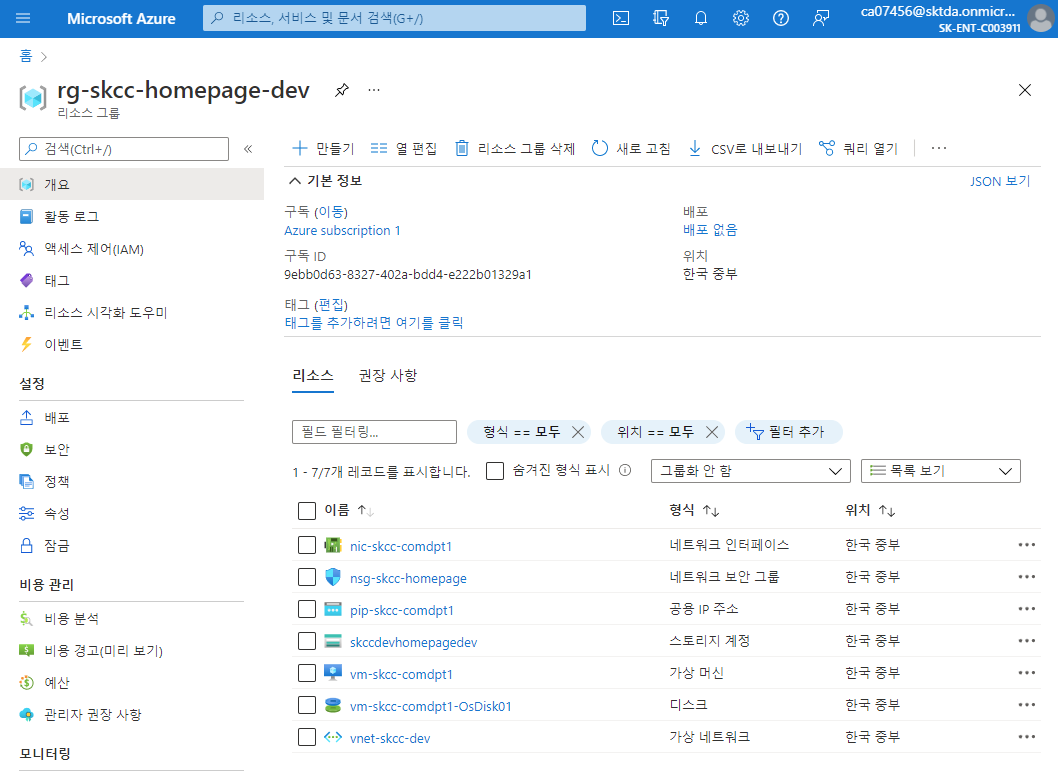
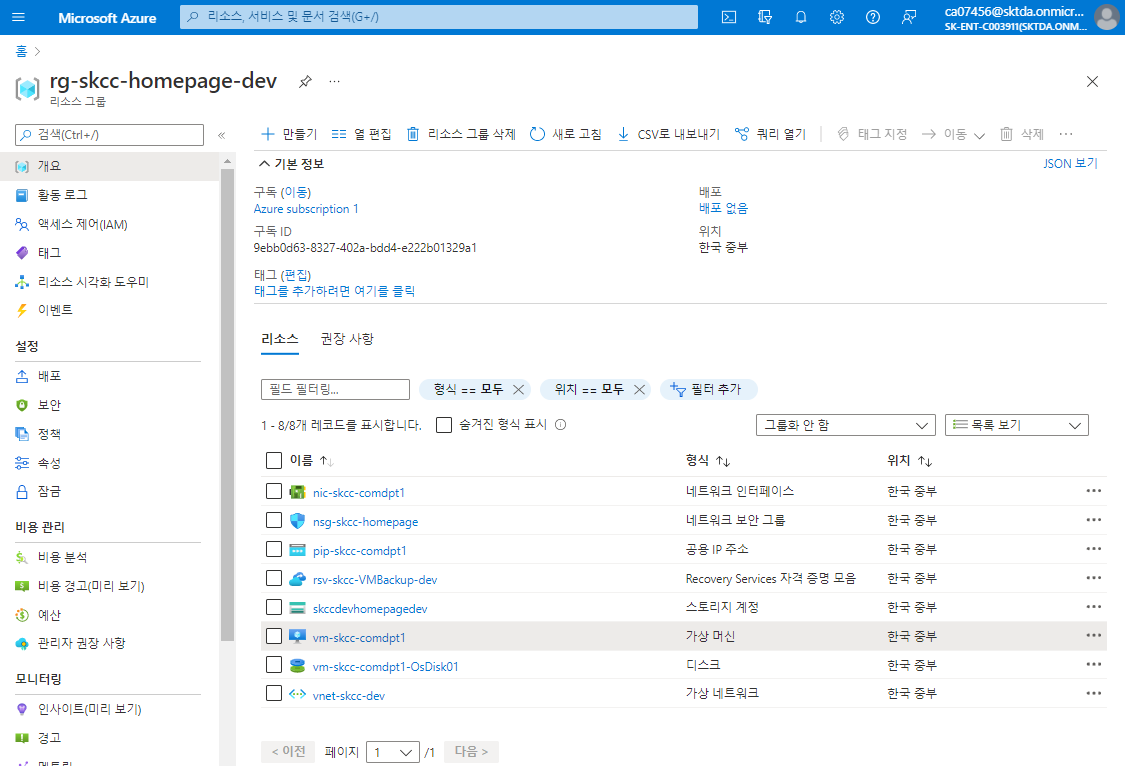
2022-01-17

diff --git a/1.IaaS/AzureBackup.md b/1.IaaS/AzureBackup.md
@@ -1,0 +1,96 @@
+# Azure Backup
+* [PowerShell을 사용하여 Azure에서 가상 머신 백업](https://docs.microsoft.com/ko-kr/azure/backup/quick-backup-vm-powershell)
+![Azure-Backup.png](./img/Azure-Backup.png)  
+![AzureVMBackupRestoreUsingSnapshot_thumb.png](./img/AzureVMBackupRestoreUsingSnapshot_thumb.png)  
+* [Azure VM에서 SQL Server 데이터베이스 백업](https://docs.microsoft.com/ko-kr/azure/backup/tutorial-sql-backup)  
+* [자습서: Azure VM에서 SAP HANA 데이터베이스 백업](https://docs.microsoft.com/ko-kr/azure/backup/tutorial-backup-sap-hana-db)  
+* [PowerShell을 사용하여 Azure Database for MySQL 서버를 백업 및 복원하는 방법](https://docs.microsoft.com/ko-kr/azure/mysql/howto-restore-server-powershell)
+
+## Backup 정책
+| 구분 | 주기 | 방법 |
+|:---|:---|:---|  
+| VM | 일 Backup | Incremental | 
+| DB | 일 Backup | Full | 
+
+## Login
+- az login 과 Connect-AzAccount 는 각각의 영영을 가지는 것으로 보임
+```powershell
+Connect-AzAccount
+Get-AzSubscription
+```
+
+## Recovery Services 자격 증명 모음 만들기
+### 자격 증명 모음 생성
+
+```powershell
+New-AzRecoveryServicesVault `
+  -ResourceGroupName "rg-skcc-homepage-dev" `
+  -Name "rsv-skcc-VMBackup-dev" `
+  -Location "koreacentral"
+```
+
+### 자격증명모음 컨텍스트 만들기
+```powershell
+Get-AzRecoveryServicesVault `
+  -Name "rsv-skcc-VMBackup-dev" | Set-AzRecoveryServicesVaultContext
+```
+
+### 자격 증명 모음의 스토리지 중복 구성(LRS/GRS)을 변경
+```powershell
+Get-AzRecoveryServicesVault `
+  -Name "rsv-skcc-VMBackup-dev" |  `
+  Set-AzRecoveryServicesBackupProperty `
+    -BackupStorageRedundancy LocallyRedundant
+```
+
+## Azure VM에 백업 사용
+### 기본 정책을 설정
+```powershell
+$policy = Get-AzRecoveryServicesBackupProtectionPolicy `
+  -Name "DefaultPolicy"
+```
+![DefaultBackuPolicy.png](./img/DefaultBackuPolicy.png)  
+
+### VM 백업을 사용하도록 설정
+```powershell
+$vm='vm-skcc-comdpt1';
+Enable-AzRecoveryServicesBackupProtection `
+    -ResourceGroupName "rg-skcc-homepage-dev" `
+    -Name "$vm" `
+    -Policy $policy
+```
+
+## 백업 작업 시작
+백업은 백업 정책에 지정된 일정에 따라 실행
+- 첫 번째 초기 백업 작업에서는 전체 복구 지점이 만들어집니다.
+- 초기 백업 후에는 각 백업 작업에서 증분 복구 지점이 만들어집니다.
+- 증분 복구 지점은 마지막 백업 이후 변경된 내용만을 전송하기 때문에 스토리지 및 시간 효율적입니다.
+
+### 주문형 백업 작업
+- 컨테이너를 지정하고, VM 정보를 가져오고, 백업을 실행
+```powershell
+$backupcontainer = Get-AzRecoveryServicesBackupContainer `
+    -ContainerType "AzureVM" `
+    -FriendlyName "myVM"
+
+$item = Get-AzRecoveryServicesBackupItem `
+    -Container $backupcontainer `
+    -WorkloadType "AzureVM"
+
+Backup-AzRecoveryServicesBackupItem -Item $item
+```
+
+## 백업 작업 모니터링
+```powershell
+Get-AzRecoveryservicesBackupJob
+```
+
+## [VM 백업 관리](https://docs.microsoft.com/ko-kr/azure/backup/backup-azure-vms-automation#manage-azure-vm-backups)
+
+## 배포 정리
+```powershell
+Disable-AzRecoveryServicesBackupProtection -Item $item -RemoveRecoveryPoints
+$vault = Get-AzRecoveryServicesVault -Name "myRecoveryServicesVault"
+Remove-AzRecoveryServicesVault -Vault $vault
+Remove-AzResourceGroup -Name "myResourceGroup"
+```

diff --git a/0.ENV/PowerShell.md b/0.ENV/PowerShell.md
@@ -23,6 +23,12 @@
 - Get-InstalledModule -Name "Az"
 - Install-Module -Name Az.Compute
 - Install-Module -Name Az.Network
+- Install-Module -Name Az.MySql -AllowPrerelease
+
+## 서비스
+- Register-AzResourceProvider -ProviderNamespace Microsoft.DBforMySQL
+- Register-AzResourceProvider -ProviderNamespace "Microsoft.RecoveryServices"
+- Register-AzResourceProvider -ProviderNamespace Microsoft.Network
 
 ## 예약어
 | 예약어 | 의미 |
@@ -40,7 +46,7 @@
 | -gt | Greather than(크다) | > |  
 | -lt | Less than(작다) | < |  
 | -ge | Greater than or equal to(크거나 같다) | >= |
-| -le | Less than or equal to (작거나 같다) | <= |  
+| -le | Less than or equal to(작거나 같다) | <= |  
 
 
 ## Sample
@@ -561,7 +567,7 @@ The key's randomart image is:
 PS C:\workspace\AzureBasic\0.ENV>
 ```
 ```powershell
-$sshPublicKey = cat ~/.ssh/id_rsa.pub
+$sshPublicKey = cat ./.ssh/id_rsa.pub
 Add-AzVMSshPublicKey `
   -VM $vmConfig `
   -KeyData $sshPublicKey `
@@ -569,7 +575,7 @@ Add-AzVMSshPublicKey `
 ```
 
 ### OS Disk 설정
-```pwsh
+```powershell
 $vmName="vm-skcc-comdpt1"
 $resourceGroup = Get-AzResourceGroup -Name 'rg-skcc-homepage-dev'
 $location = $resourceGroup.Location
@@ -605,6 +611,23 @@ New-AzVM -VM $vmConfig `
 ![rg-skcc-homepage-dev.png](./img/rg-skcc-homepage-dev.png)  
 ![vm-skcc-comdpt1.png](./img/vm-skcc-comdpt1.png)  
 
+### Backup 적용
+- 기본 정책을 설정
+  ```powershell
+  $policy = Get-AzRecoveryServicesBackupProtectionPolicy `
+    -Name "DefaultPolicy"
+  ```
+
+- VM 백업을 사용하도록 설정
+  ```powershell
+  $vm='vm-skcc-comdpt1';
+  Enable-AzRecoveryServicesBackupProtection `
+      -ResourceGroupName "rg-skcc-homepage-dev" `
+      -Name "$vm" `
+      -Policy $policy
+  ```
+![rsv-skcc-VMBackup-dev.png](./img/rsv-skcc-VMBackup-dev.png)  
+![rsv-skcc-VMBackup-dev-backup-items.png](./img/rsv-skcc-VMBackup-dev-backup-items.png)  
 
 ### apache vm 만들기
 - VM 자격 증명을 설정 : Get-Credential

diff --git a/1.IaaS/2022-02-04.md b/1.IaaS/2022-02-04.md
@@ -2,9 +2,13 @@
 Vnet, subnet, NSG, apache, tomcat, mysql 구성
 - VM, disk, Storage Account, Internal L4, VMSS, AppGateway 구성
 
+* [빠른 시작: PowerShell을 사용하여 Azure Database for MySQL 서버 만들기](https://docs.microsoft.com/ko-kr/azure/mysql/quickstart-create-mysql-server-database-using-azure-powershell)
+
 ## VNet 만들기
 ### NSG
 ### subnet
 ## VM 만들기
 ### Apache 구성
 ### Tomcat 구성
+### MySQL 구성
+
